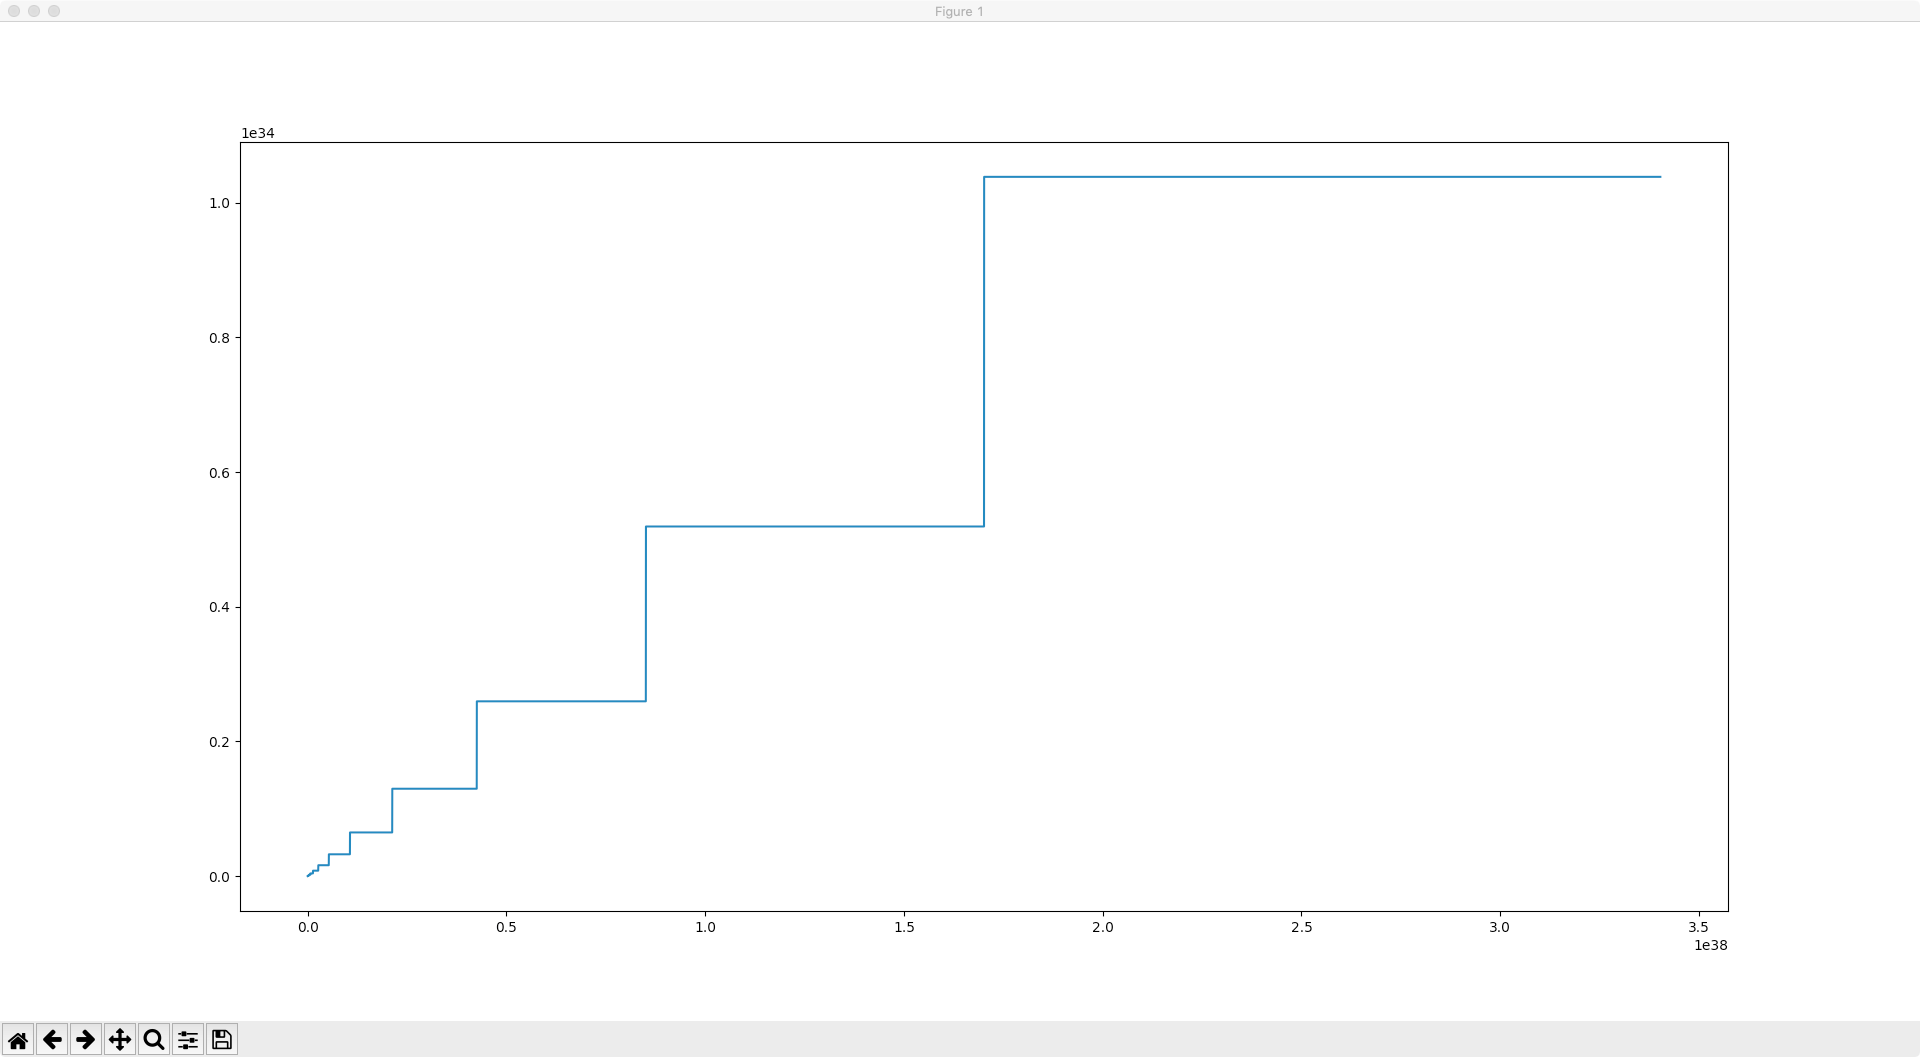
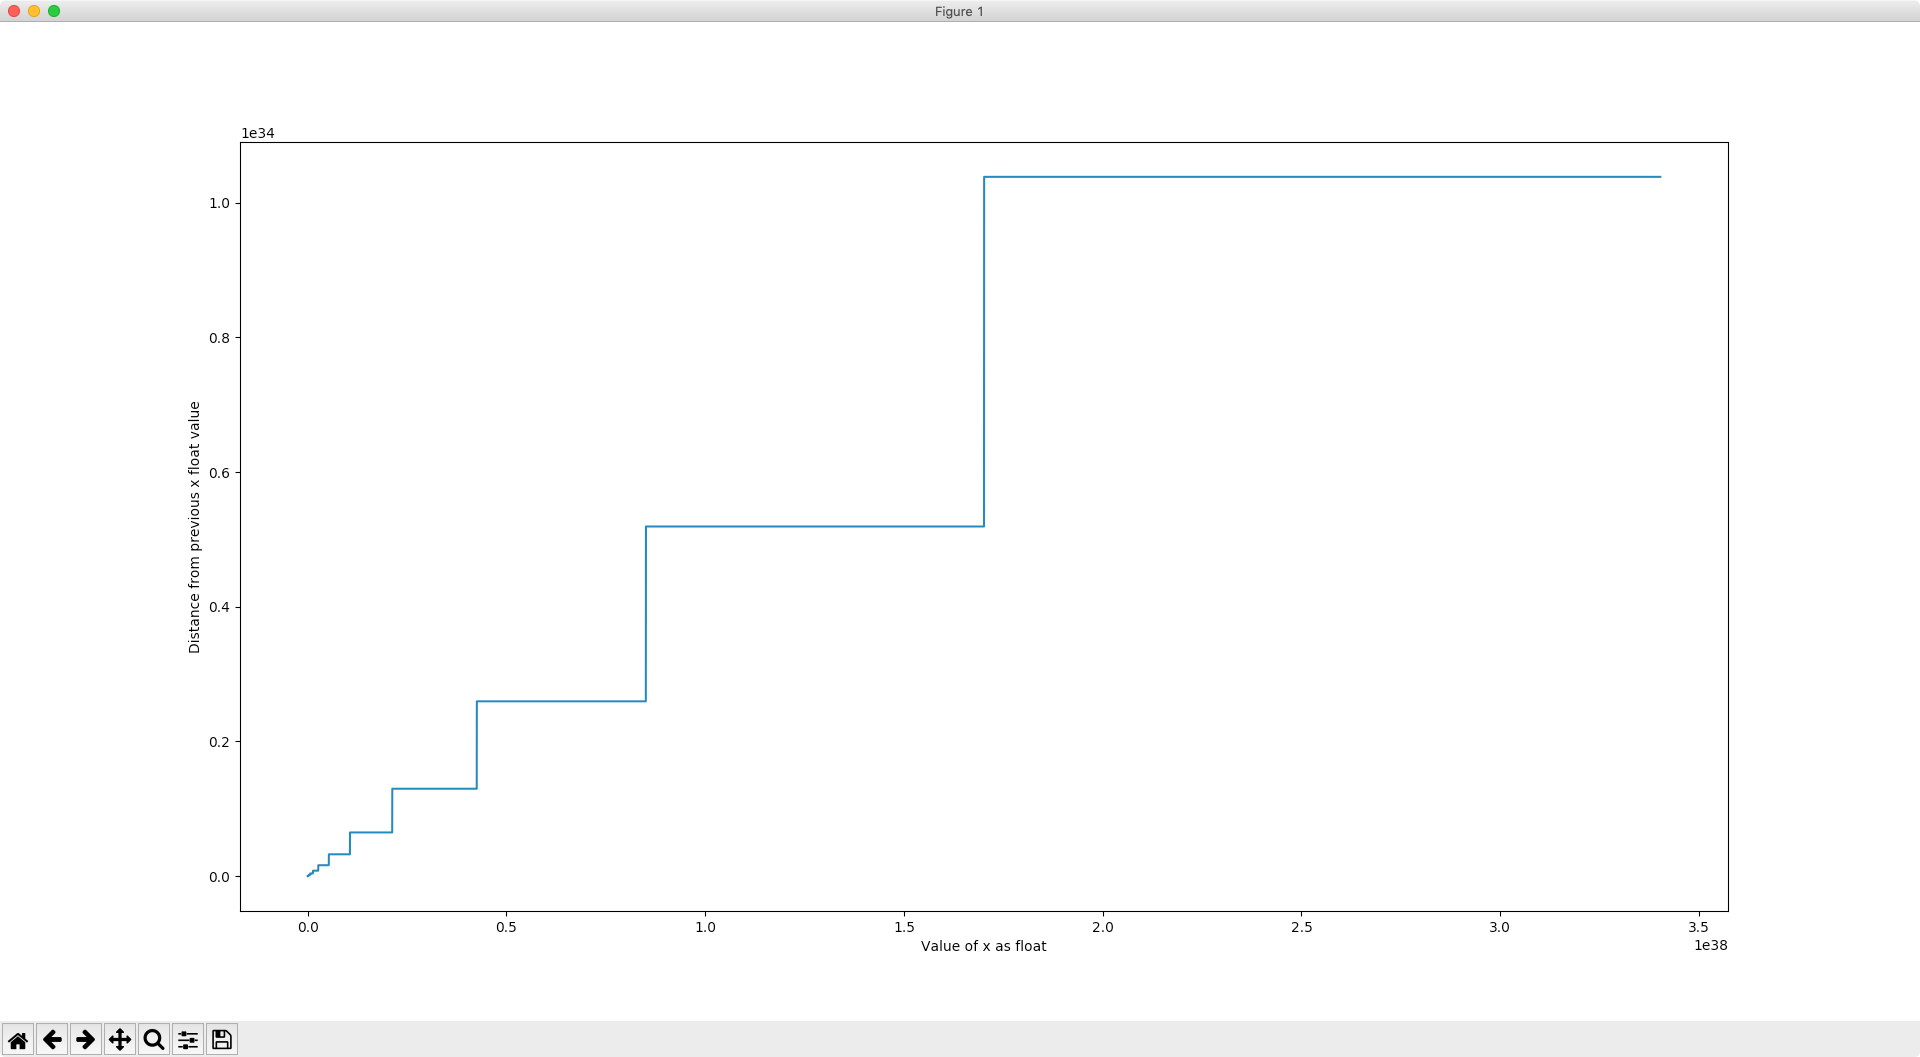
added README and code cleaning

Changed region(s): [[0.0, 0.0, 1.0, 0.0312], [0.5, 0.8742, 0.5312, 0.9054]]

diff --git a/build_float_set.py b/build_float_set.py
@@ -22,16 +22,19 @@ def pad_string(instring, size):
     return out
 
 if __name__ == "__main__":
-    # Set params for generation
     # int values of binary strings to start/end from
     start = 0
-    end = 4294967296
+
     # bit length to pad to
     bit_len = 32
+    end = 2 ** bit_len 
+
+    # int amount to skip by 
+    skip = 512
+
 
     # Build set of bitstrings
-    # longString = make_strings(start, end, skip=64)
-    longString = make_strings(start, end, skip=512)
+    longString = make_strings(start, end, skip=skip)
     rows = longString.split('\n')
 
     strings = []
@@ -42,7 +45,6 @@ if __name__ == "__main__":
     for row in tqdm(rows):
         padded = pad_string(row, bit_len)
         b = BitArray(bin=padded)
-        # print(padded, int_from_bits(row), b.float)
         strings.append(padded)
         ints.append(int_from_bits(row))
         floats.append(b.float)

diff --git a/graph.py b/graph.py
@@ -34,5 +34,6 @@ print(jumps)
 print(len(jumps))
 
 plt.plot(arr[1:], diffs)
+plt.ylabel('Distance from previous x float value')
+plt.xlabel('Value of x as float')
 plt.show()
-

diff --git a/README.md b/README.md
@@ -1,0 +1,14 @@
+# Float Precision
+
+This project is meant to show how the finite set of representable floating-point numbers
+requires "jumps" in precision in order to span an infinite domain of values (or larger domain of values if excluding -/+ infinity).
+
+## Example Graph
+![Example Graph](graph_examples/correct_graph.png "Example Graph")
+
+
+## Building & graphing data
+To build an out_floats.json file:
+- Modify constants at top of build_float_set.py as desired
+- Run build_float_set.py to build the out_floats.json file
+- Run graph.py to graph load and chart the data in out_floats.json
